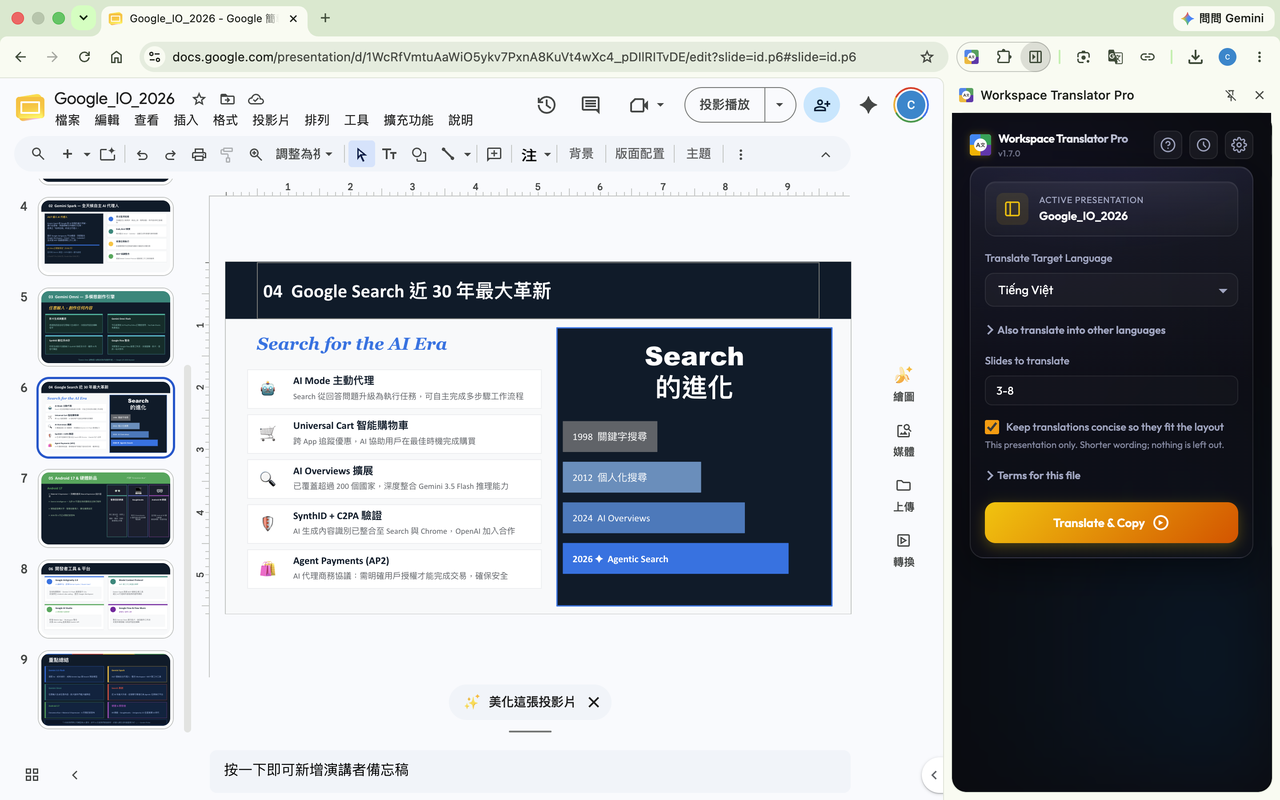
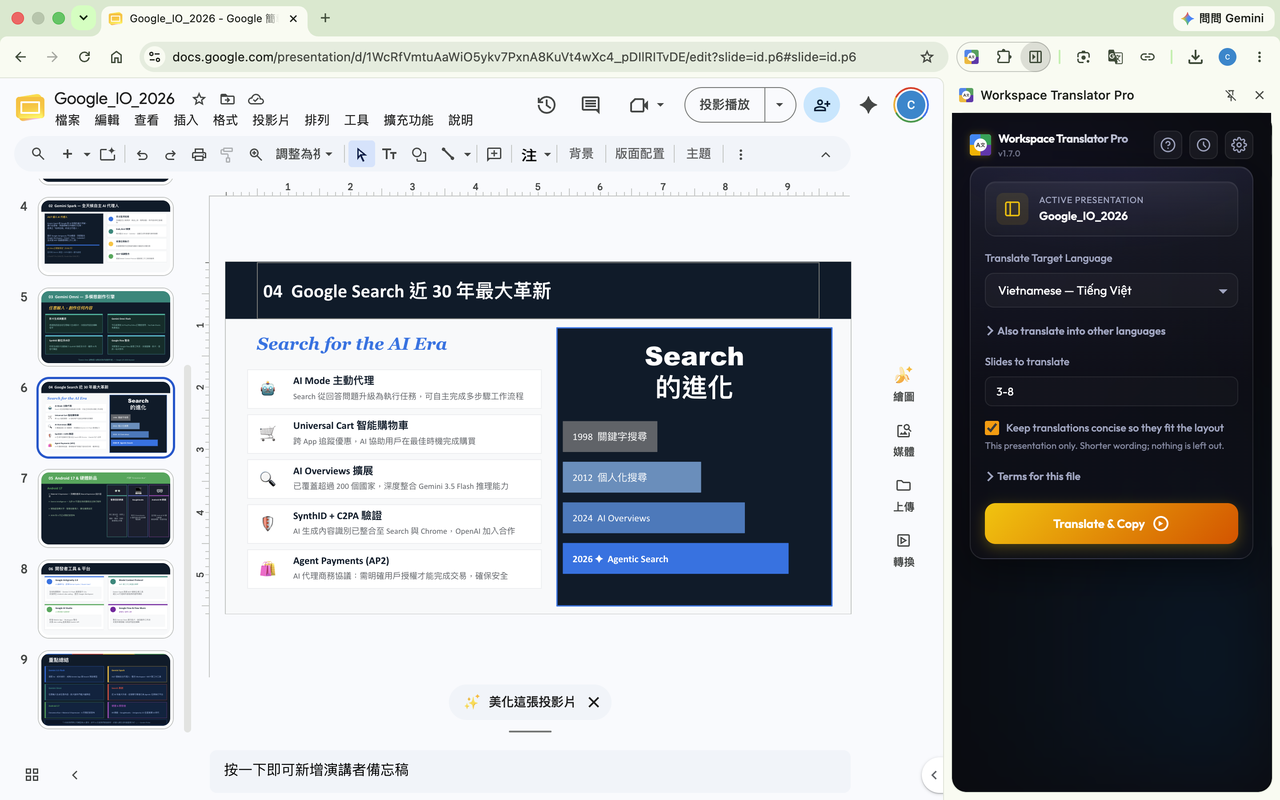
Language names in the interface language: target list 'Japanese — 日本語', interface list '日本語 — Japanese', chips localized; store images regenerated

diff --git a/popup.js b/popup.js
@@ -1,4 +1,4 @@
-import { TARGET_LANGUAGES, UI_LANGUAGES, targetLabel, uiLabel, resolveUiLang, matchLocale } from './i18n/languages.js';
+import { TARGET_LANGUAGES, UI_LANGUAGES, targetLabel, uiLabel, resolveUiLang, matchLocale, localLangName, targetOptionLabel } from './i18n/languages.js';
 import {
   loadLocale, t, tStatus, applyI18n, formatShortDateTime,
   getStoredUiLang, setStoredUiLang,
@@ -314,7 +314,9 @@ document.addEventListener('DOMContentLoaded', async () => {
       chip.type = 'button';
       chip.className = 'lang-chip';
       chip.dataset.code = lang.code;
-      chip.textContent = lang.endonym;
+      // Name in the interface language (short), native name on hover.
+      chip.textContent = localLangName(lang, document.documentElement.lang);
+      chip.title = lang.endonym;
       chip.setAttribute('aria-pressed', String(ticked.has(lang.code)));
       chip.addEventListener('click', () => {
         chip.setAttribute('aria-pressed', String(chip.getAttribute('aria-pressed') !== 'true'));
@@ -328,8 +330,8 @@ document.addEventListener('DOMContentLoaded', async () => {
     for (const lang of TARGET_LANGUAGES) {
       const opt = document.createElement('option');
       opt.value = lang.code;
-      opt.textContent = lang.endonym; // native name, same as the chips
-      opt.title = lang.english;
+      // "Japanese — 日本語": readable for the user, recognisable for a native reader.
+      opt.textContent = targetOptionLabel(lang, document.documentElement.lang);
       selectLang.appendChild(opt);
     }
     if (selectUiLang) {
@@ -337,9 +339,9 @@ document.addEventListener('DOMContentLoaded', async () => {
       for (const lang of UI_LANGUAGES) {
         const opt = document.createElement('option');
         opt.value = lang.code;
-        // Endonym only, deliberately never localised, so a user who picked a
-        // script they can't read can still find their way back.
-        opt.textContent = uiLabel(lang);
+        // Native name first (a way back from a script you can't read), then the
+        // name in the current interface language: "日本語 — Japanese".
+        opt.textContent = uiLabel(lang, document.documentElement.lang);
         selectUiLang.appendChild(opt);
       }
       selectUiLang.value = uiLang;
@@ -1848,7 +1850,7 @@ document.addEventListener('DOMContentLoaded', async () => {
       const li = document.createElement('li');
       const a = document.createElement('a');
       const lang = TARGET_LANGUAGES.find((l) => l.code === r.lang);
-      const langName = lang ? lang.endonym : r.lang; // native name, as on the chips
+      const langName = lang ? localLangName(lang, document.documentElement.lang) : r.lang; // as on the chips
       a.textContent = '↗ ' + langName;
       a.addEventListener('click', () => chrome.tabs.create({ url: r.url }));
       li.appendChild(a);

diff --git a/i18n/languages.js b/i18n/languages.js
@@ -58,11 +58,39 @@ export function targetLabel(lang) {
 }
 
 /**
- * Label for the INTERFACE language picker: the endonym alone.
- * Deliberately not localised — see the `endonym` note above.
+ * A target language's name in the interface language, e.g. Japanese → "Japanese"
+ * for an English UI, "日文" for a Traditional Chinese UI. Uses the browser's own
+ * language names (Intl.DisplayNames); falls back to the English name.
  */
-export function uiLabel(lang) {
-  return lang.endonym;
+export function localLangName(lang, uiCode = ROOT_LOCALE) {
+  const bcp = { 'zh-TW': 'zh-Hant', 'zh-CN': 'zh-Hans' };
+  try {
+    const name = new Intl.DisplayNames([uiCode], { type: 'language' }).of(bcp[lang.code] || lang.code);
+    if (name && name !== (bcp[lang.code] || lang.code)) return name.charAt(0).toLocaleUpperCase(uiCode) + name.slice(1);
+  } catch (_) { /* old browser or unknown code */ }
+  return lang.english;
+}
+
+/**
+ * Label for the target-language dropdown: the name in the interface language,
+ * then the native name — "Japanese — 日本語". Just one name when they match
+ * ("English" in an English UI, "繁體中文" in a Traditional Chinese UI).
+ */
+export function targetOptionLabel(lang, uiCode = ROOT_LOCALE) {
+  const local = localLangName(lang, uiCode);
+  return local === lang.endonym ? lang.endonym : `${local} — ${lang.endonym}`;
+}
+
+/**
+ * Label for the INTERFACE language picker: the native name first, then (given
+ * uiCode) the name in the current interface language, e.g. "日本語 — Japanese".
+ */
+export function uiLabel(lang, uiCode) {
+  // Native name always first, so a user who picked a script they can't read can
+  // still find their own language; the current interface's name follows.
+  if (!uiCode) return lang.endonym;
+  const local = localLangName(lang, uiCode);
+  return local === lang.endonym ? lang.endonym : `${lang.endonym} — ${local}`;
 }
 
 /**

diff --git a/onboarding.js b/onboarding.js
@@ -123,7 +123,7 @@ document.addEventListener('DOMContentLoaded', async () => {
   for (const lang of UI_LANGUAGES) {
     const opt = document.createElement('option');
     opt.value = lang.code;
-    opt.textContent = uiLabel(lang);
+    opt.textContent = uiLabel(lang, document.documentElement.lang);
     picker.appendChild(opt);
   }
   picker.value = code;
